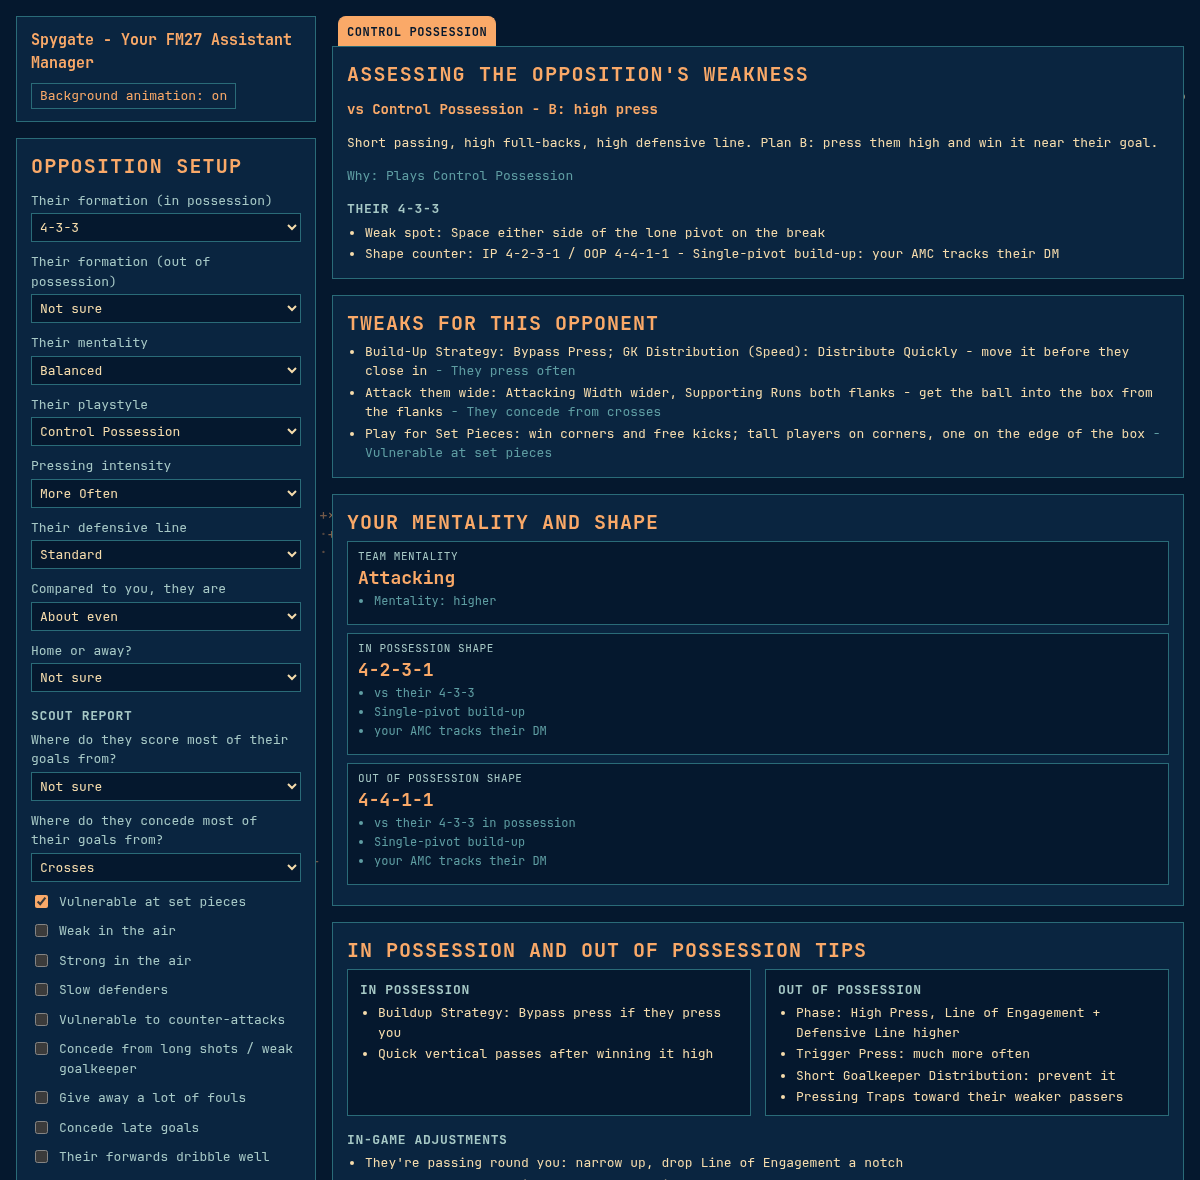
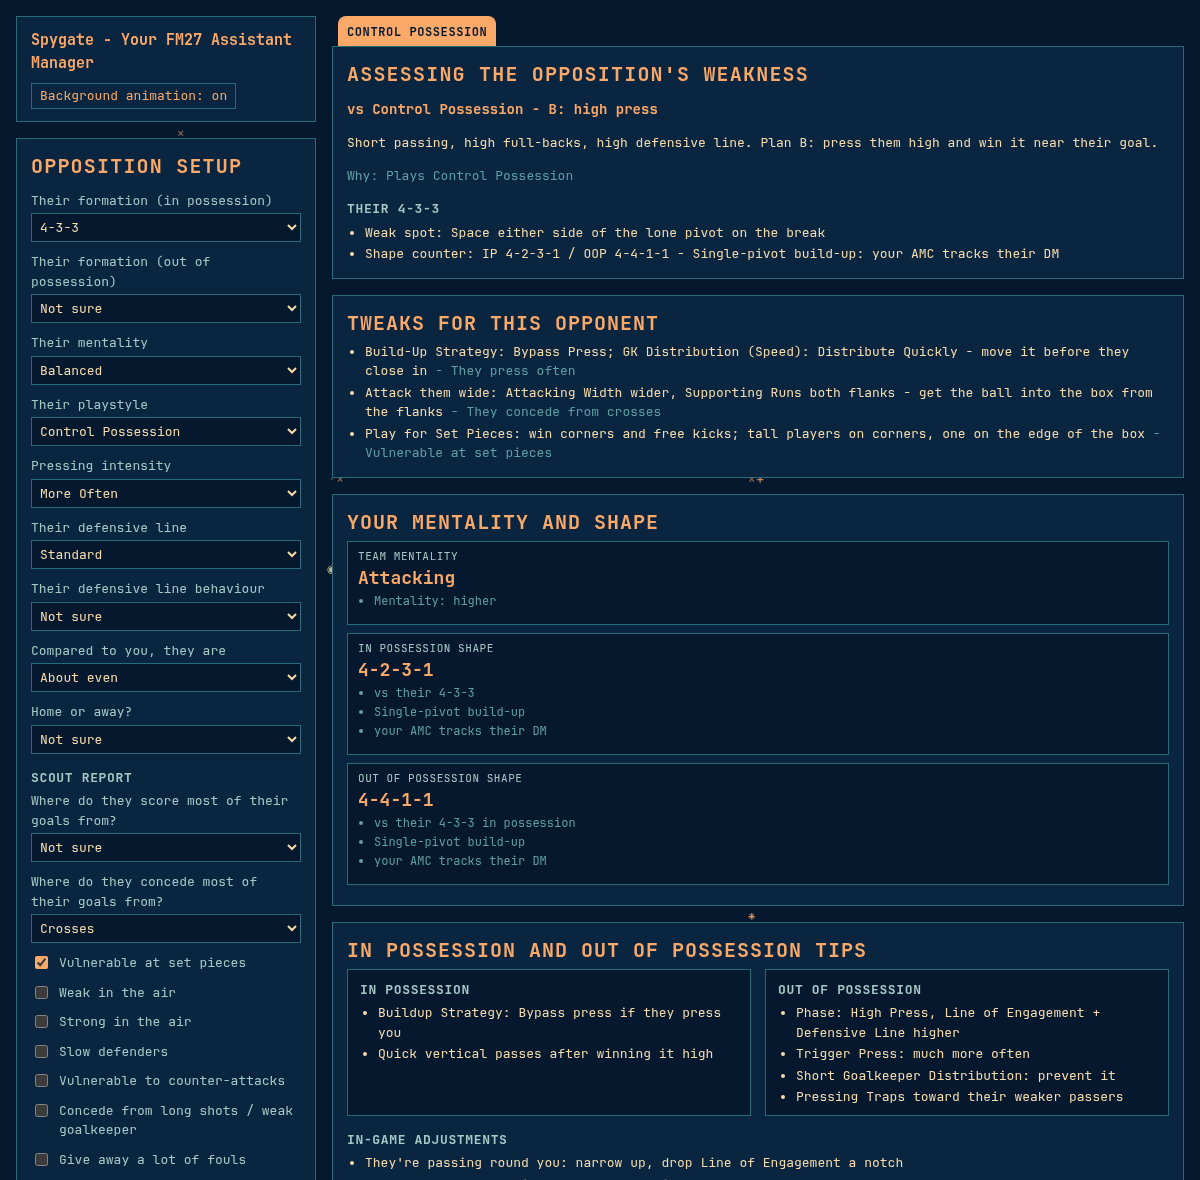
Their defensive line behaviour dropdown; Defensive Line Behaviour options from the game
Step Up More / Balanced / Drop Off More (was Balanced / Offside Trap / Step Up).

Changed region(s): [[0.0308, 0.4881, 0.2467, 1.0], [0.2158, 0.7017, 0.2467, 0.7322], [0.0925, 0.4881, 0.1233, 0.5186]]

diff --git a/index.html b/index.html
@@ -62,6 +62,7 @@ h3.big{font-size:16px;color:var(--accent);margin-top:0}
     <option value="bus">Park the Bus</option></select></label>
   <label>Pressing intensity<select name="trigger"><option value="">Not sure</option><option value="less">Less Often</option><option value="balanced">Balanced</option><option value="more">More Often</option><option value="muchMore">Much More Often</option></select></label>
   <label>Their defensive line<select name="line"><option value="muchLower">Much Lower</option><option value="lower">Lower</option><option value="standard" selected>Standard</option><option value="higher">Higher</option><option value="muchHigher">Much Higher</option></select></label>
+  <label>Their defensive line behaviour<select name="lineBehaviour"><option value="">Not sure</option><option value="stepUp">Step Up More</option><option value="balanced">Balanced</option><option value="dropOff">Drop Off More</option></select></label>
   <label>Compared to you, they are<select name="strength"><option value="weaker">Weaker</option><option value="even" selected>About even</option><option value="stronger">Stronger</option></select></label>
   <label>Home or away?<select name="venue"><option value="">Not sure</option><option value="home">Home</option><option value="away">Away</option></select></label>
   <div id="scout"></div>
@@ -127,7 +128,7 @@ const PLANS={
     blurb:"They soak up pressure, then go straight forward with direct, structured counters - early balls into the channels for quick forwards. Keep the ball, but never leave space in behind: a deeper line and a DM screening the first pass.",
     shape:['Mentality: middle of the scale','IP 4-3-3 - the DM stays home as the screen','OOP 4-1-4-1 - the DM screens their first ball forward','CBs stay home - no Advanced Centre-Back'],
     ip:['Attacking Transition: Patient Build-Up','Passing Directness: Shorter','Patience: Work Ball Into Box','Attacking Width: Wider','Crossing Style: Low Crosses - no floated balls for them to clear and break from'],
-    oopI:['Defensive Line: Lower - no space behind for their early balls','Line of Engagement: Mid Block','Defensive Transition: Counter-Press - press the first pass before it goes long','Defensive Line Behaviour: Balanced - no Offside Trap against runners from deep'],
+    oopI:['Defensive Line: Lower - no space behind for their early balls','Line of Engagement: Mid Block','Defensive Transition: Counter-Press - press the first pass before it goes long','Defensive Line Behaviour: Drop Off More - runners from deep get in behind a line that steps up'],
     adjust:['Balls in behind still hurting: drop the line another notch, fastest CB on the cover side','Their target forward winning headers: key CB attributes Heading, Jumping Reach, Strength','Ahead: they have to come out - switch to Counter-Attack','No way through after 60 min: fresh winger, more crossing']},
   catenaccio:{tab:'Catenaccio',name:'vs Catenaccio',ipShape:'4-4-2 / 4-2-2-2',oop:'4-4-2',own:true,
     blurb:"They nullify your attack with three centre-backs and a deep, disciplined block. Pin their back three with two strikers, attack the space around their wing-backs, and be patient - but keep bodies home for their counter.",
@@ -200,7 +201,7 @@ const TI=[
   ['Final third','Crossing Style',['Balanced','Floated Crosses','Whipped Crosses','Low Crosses']],
   ['Out of possession','Line of Engagement',['High Press','Mid Block','Low Block'],true],
   ['Out of possession','Defensive Line',['Much Lower','Lower','Standard','Higher','Much Higher']],
-  ['Out of possession','Defensive Line Behaviour',['Balanced','Offside Trap','Step Up']],
+  ['Out of possession','Defensive Line Behaviour',['Step Up More','Balanced','Drop Off More']],
   ['Out of possession','Trigger Press',['Less Often','Balanced','More Often','Much More Often'],true],
   ['Out of possession','Defensive Transition',['Counter-Press','Standard','Regroup'],true],
   ['Out of possession','Tackling',['Stay On Feet','Standard','Get Stuck In']],
@@ -227,7 +228,7 @@ const SETS={
   fluid:{'Attacking Transition':'Patient Build-Up','Passing Directness':'Shorter','Patience':'Work Ball Into Box','Attacking Width':'Wider','Supporting Runs':'One Flank',
     'Defensive Transition':'Counter-Press','Line of Engagement':'Mid Block','Defensive Line':'Standard','Tackling':'Stay On Feet','Pressing Trap':'Trap Outside'},
   direct:{'Attacking Transition':'Patient Build-Up','Passing Directness':'Shorter','Patience':'Work Ball Into Box','Attacking Width':'Wider','Crossing Style':'Low Crosses',
-    'Defensive Line':'Lower','Line of Engagement':'Mid Block','Defensive Transition':'Counter-Press','Defensive Line Behaviour':'Balanced'},
+    'Defensive Line':'Lower','Line of Engagement':'Mid Block','Defensive Transition':'Counter-Press','Defensive Line Behaviour':'Drop Off More'},
   catenaccio:{'Attacking Width':'Wider','Supporting Runs':'Both Flanks','Passing Directness':'Shorter','Patience':'Work Ball Into Box','Crossing Style':'Low Crosses',
     'Line of Engagement':'High Press','Defensive Line':'Higher','Defensive Transition':'Counter-Press','Short Goalkeeper Distribution':'Yes'},
   tiki:{'Attacking Transition':'Counter-Attack','Build-Up Strategy':'Bypass Press','Goal Kicks':'Long','Passing Directness':'More Direct','Tempo':'Higher',
@@ -277,6 +278,8 @@ const TWEAKS=[
   // Their line, from the game's Defensive Line staff feedback: higher = vulnerable to direct through balls,
   // more offside, relies on the GK; lower = space in front of the defence and on the edge of the box.
   {when:o=>highLine(o),text:'Pass Reception: Pass Into Space, Passing Directness: More Direct - through balls behind their line; ST as Channel Forward, runs from deep to beat the offside trap',why:'They play a high line',set:{'Pass Reception':'Pass Into Space','Passing Directness':'More Direct'}},
+  {when:o=>o.lineBehaviour==='stepUp',text:'Pass Reception: Pass Into Space - they step up, so time runs from deep and play balls over the top; a striker on the last man gets caught offside',why:'Their line steps up',own:true,set:{'Pass Reception':'Pass Into Space'}},
+  {when:o=>o.lineBehaviour==='dropOff',text:'Pass Reception: Pass To Feet - they drop off, leaving space in front of their defence and on the edge of the box',why:'Their line drops off',own:true,set:{'Pass Reception':'Pass To Feet'}},
   {when:o=>o.line==='lower'||o.line==='muchLower',text:"Pass Reception: Pass To Feet - no room in behind, so get players between their lines and onto the edge of the box; Shots From Distance: Encourage only with good Long Shots",why:'They play a deep line',own:true,set:{'Pass Reception':'Pass To Feet'}},
   {when:o=>o.strength==='stronger',text:'Mentality one notch lower; consider Low Block with 5-4-1 OOP',why:'Stronger opponent (5-4-1: protecting a lead, stronger opponents)',mood:-1},
   {when:o=>o.strength==='weaker',text:'Mentality one notch higher',why:'Weaker opponent',own:true,mood:1},
@@ -289,8 +292,8 @@ const TWEAKS=[
     text:'Stop the crosses: Cross Engagement: Stop Crosses, Pressing Trap inside - away from the touchline; wide players track back',why:'They score from crosses',own:true,
     set:{'Cross Engagement':'Stop Crosses','Pressing Trap':'Trap Inside'}},
   {key:'goalsFrom',value:'middle',ask:'Where do they score most of their goals from?',label:'Through the middle',
-    text:'Close the shooting space: Defensive Line Behaviour step up; Pressing Trap outside - force them wide',why:'They score through the middle',own:true,
-    set:{'Defensive Line Behaviour':'Step Up','Pressing Trap':'Trap Outside'}},
+    text:'Close the shooting space: Defensive Line Behaviour: Step Up More; Pressing Trap outside - force them wide',why:'They score through the middle',own:true,
+    set:{'Defensive Line Behaviour':'Step Up More','Pressing Trap':'Trap Outside'}},
   {key:'concedeFrom',value:'crosses',ask:'Where do they concede most of their goals from?',label:'Crosses',
     text:'Attack them wide: Attacking Width wider, Supporting Runs both flanks - get the ball into the box from the flanks',why:'They concede from crosses',own:true,
     set:{'Attacking Width':'Wider','Supporting Runs':'Both Flanks'}},

diff --git a/test/engine.test.js b/test/engine.test.js
@@ -64,7 +64,7 @@ test('Bypass press only when they press (PDF: "if they press you")', () => {
 test('scout report: where they score decides crosses vs stepping up', () => {
   const c=r({goalsFrom:'crosses'}).set,m=r({goalsFrom:'middle'}).set;
   assert.equal(c['Cross Engagement'],'Stop Crosses');assert.equal(c['Pressing Trap'],'Trap Inside');
-  assert.equal(m['Defensive Line Behaviour'],'Step Up');assert.equal(m['Pressing Trap'],'Trap Outside');
+  assert.equal(m['Defensive Line Behaviour'],'Step Up More');assert.equal(m['Pressing Trap'],'Trap Outside');
   assert.equal(r({}).set['Defensive Line Behaviour'],undefined);
 });
 test('scout report: set pieces, and overrides of the plan are reported', () => {
@@ -142,4 +142,11 @@ test('their defensive line: through balls vs a high line, to feet vs a deep one'
   for(const line of ['higher','muchHigher']){const x=r({line}).set;assert.equal(x['Pass Reception'],'Pass Into Space');assert.equal(x['Passing Directness'],'More Direct');}
   for(const line of ['lower','muchLower'])assert.equal(r({line}).set['Pass Reception'],'Pass To Feet');
   assert.ok(!r({line:'standard'}).tweaks.some(t=>/line$/.test(t.why)));
+});
+
+test('their defensive line behaviour', () => {
+  assert.equal(r({lineBehaviour:'dropOff'}).set['Pass Reception'],'Pass To Feet');
+  assert.ok(r({lineBehaviour:'stepUp'}).tweaks.some(t=>t.why==='Their line steps up'));
+  assert.ok(!r({lineBehaviour:'balanced'}).tweaks.some(t=>t.why.startsWith('Their line')));
+  assert.equal(r({style:'direct'}).set['Defensive Line Behaviour'],'Drop Off More');
 });
